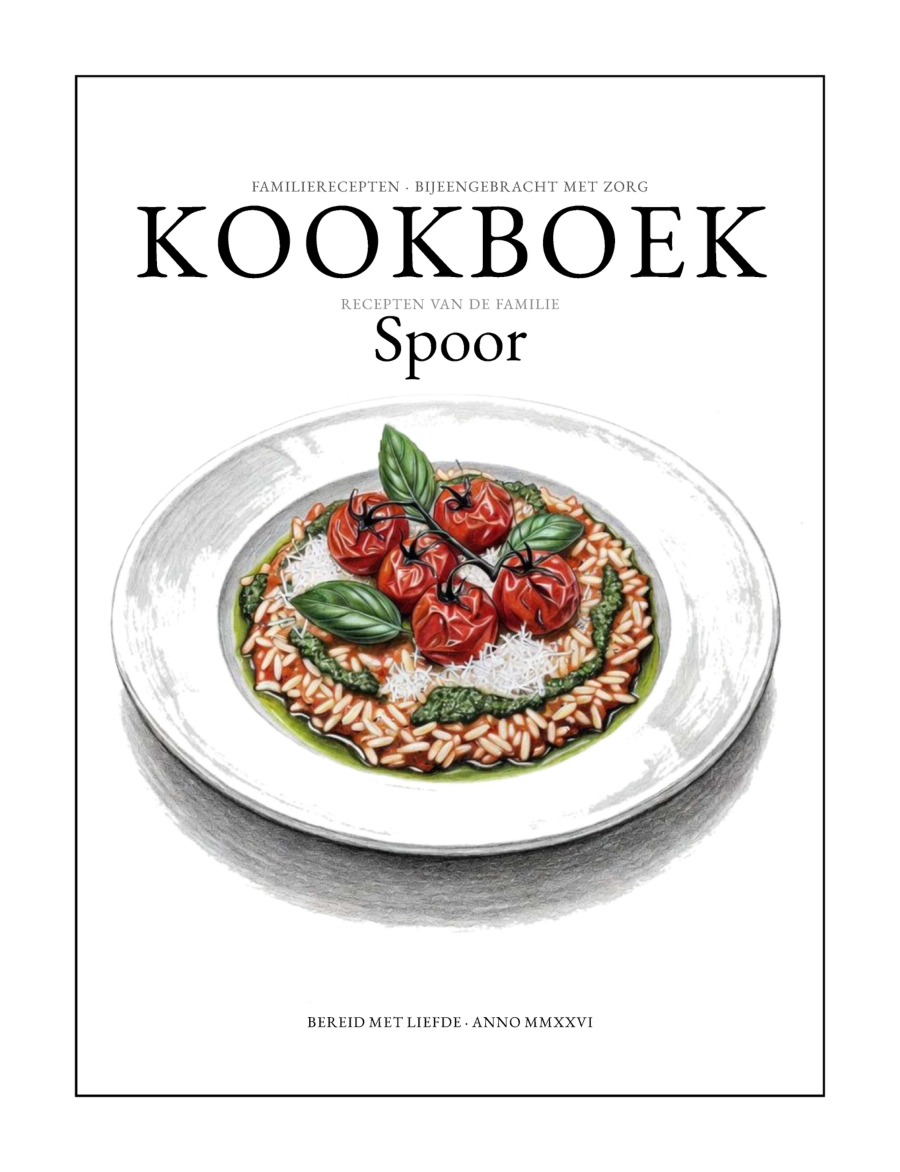
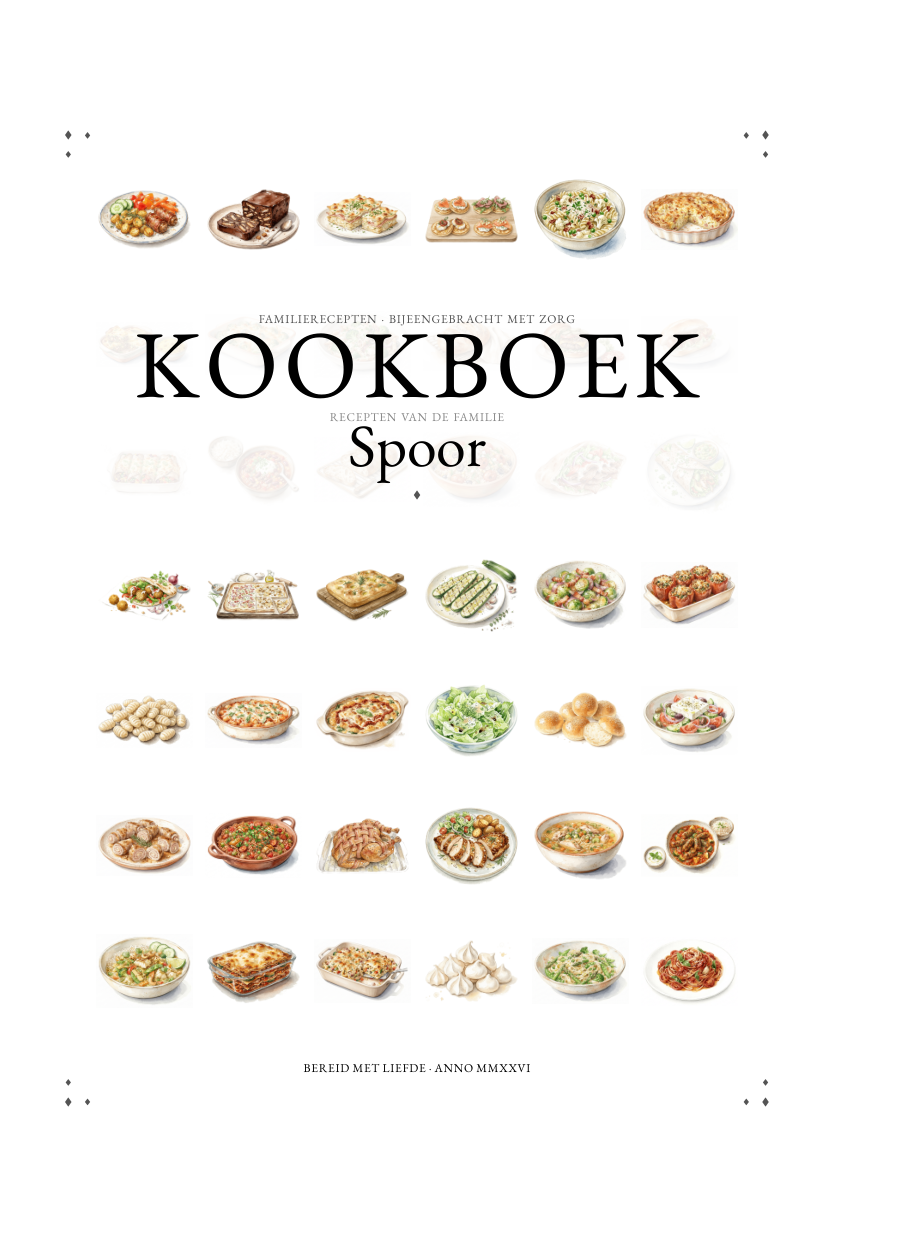
Source the site's cover preview from the mosaic front cover instead
docs/cover-preview.png was rendered from the interior PDF's plain
title page (single photo, bordered rectangle) — not the actual
published cover. Rewrote update_readme_cover.py to crop the front
panel straight out of the built wraparound cover PDF instead, so the
site shows the real mosaic-of-every-recipe design with the diamond
corner ornaments, matching what actually goes to print.

\spinew is read from cover.tex at runtime (page count can move it to
a different hardcover spine-width bucket); \panelw is derived from
the fixed trim+bleed constants, which don't change with page count.

Changed region(s): [[0.0622, 0.0614, 0.9333, 0.9522], [0.3422, 0.8601, 0.6533, 0.8908], [0.6844, 0.3686, 0.7467, 0.3993]]

diff --git a/scripts/update_readme_cover.py b/scripts/update_readme_cover.py
@@ -1,15 +1,17 @@
 #!/usr/bin/env python3
 """Regenerate docs/cover-preview.png (the README's cover photo) from the
-built interior PDF's title page (page 1), which carries the same photo and
-title block as the wraparound cover's front panel.
+built wraparound cover PDF's front panel — the mosaic of every recipe's
+hero photo behind the title block, cropped out of the back/spine/front
+spread (see cover/cover.tex).
 
 Usage:
-    python3 scripts/update_readme_cover.py [INTERIOR_PDF] [--repo-root DIR]
+    python3 scripts/update_readme_cover.py [COVER_PDF] [--repo-root DIR]
 
-Requires the interior PDF to already be built (see build.sh).
+Requires the cover PDF to already be built (see build.sh).
 """
 
 import argparse
+import re
 import sys
 from pathlib import Path
 
@@ -21,34 +23,60 @@ except ImportError:
 
 _PREVIEW_WIDTH_PX = 900  # matches the previous hand-generated preview
 
+# Fixed by the Lulu hardcover casewrap trim this book uses (see the header
+# comment block in cover/cover.tex) — doesn't change with page count, unlike
+# \spinew, which is read straight from cover.tex below to stay in sync with
+# whatever hardcover spine-width bucket the current page count falls into.
+_TRIMW_MM = 195.33
+_BLEED_MM = 15.87
+_PANELW_MM = _TRIMW_MM + _BLEED_MM
 
-def render_title_page(interior_pdf_path, out_path, width_px=_PREVIEW_WIDTH_PX):
-    doc = fitz.open(interior_pdf_path)
+
+def _read_spinew_mm(cover_tex_path):
+    text = cover_tex_path.read_text(encoding="utf-8")
+    m = re.search(r"\\setlength\\spinew\{([\d.]+)mm\}", text)
+    if not m:
+        raise ValueError(f"couldn't find \\setlength\\spinew{{...mm}} in {cover_tex_path}")
+    return float(m.group(1))
+
+
+def render_front_panel(cover_pdf_path, cover_tex_path, out_path, width_px=_PREVIEW_WIDTH_PX):
+    spinew_mm = _read_spinew_mm(cover_tex_path)
+    spread_mm = 2 * _PANELW_MM + spinew_mm
+    front_left_frac = (_PANELW_MM + spinew_mm) / spread_mm
+
+    doc = fitz.open(cover_pdf_path)
     page = doc[0]
+    front_rect = fitz.Rect(page.rect.width * front_left_frac, 0, page.rect.width, page.rect.height)
 
-    zoom = width_px / page.rect.width
-    pix = page.get_pixmap(matrix=fitz.Matrix(zoom, zoom))
+    zoom = width_px / front_rect.width
+    pix = page.get_pixmap(matrix=fitz.Matrix(zoom, zoom), clip=front_rect)
     pix.save(out_path)
 
 
 def main():
     parser = argparse.ArgumentParser(description=__doc__, formatter_class=argparse.RawDescriptionHelpFormatter)
-    parser.add_argument("interior_pdf", nargs="?", default="KookboekFamilieSpoor.pdf")
+    parser.add_argument("cover_pdf", nargs="?", default="KookboekFamilieSpoor-cover.pdf")
     parser.add_argument("--repo-root", default=Path(__file__).resolve().parent.parent)
+    parser.add_argument("--cover-tex", default=None, help="path to cover/cover.tex (default: <repo-root>/cover/cover.tex)")
     parser.add_argument("--out", default=None, help="output PNG path (default: docs/cover-preview.png)")
     args = parser.parse_args()
 
     repo_root = Path(args.repo_root)
-    interior_pdf_path = Path(args.interior_pdf)
-    if not interior_pdf_path.is_absolute():
-        interior_pdf_path = repo_root / interior_pdf_path
+    cover_pdf_path = Path(args.cover_pdf)
+    if not cover_pdf_path.is_absolute():
+        cover_pdf_path = repo_root / cover_pdf_path
+    cover_tex_path = Path(args.cover_tex) if args.cover_tex else repo_root / "cover" / "cover.tex"
     out_path = Path(args.out) if args.out else repo_root / "docs" / "cover-preview.png"
 
-    if not interior_pdf_path.exists():
-        print(f"error: {interior_pdf_path} doesn't exist — build it first (see build.sh)", file=sys.stderr)
+    if not cover_pdf_path.exists():
+        print(f"error: {cover_pdf_path} doesn't exist — build it first (see build.sh)", file=sys.stderr)
+        sys.exit(1)
+    if not cover_tex_path.exists():
+        print(f"error: {cover_tex_path} doesn't exist", file=sys.stderr)
         sys.exit(1)
 
-    render_title_page(interior_pdf_path, out_path)
+    render_front_panel(cover_pdf_path, cover_tex_path, out_path)
     print(f"wrote {out_path}")
 
 
